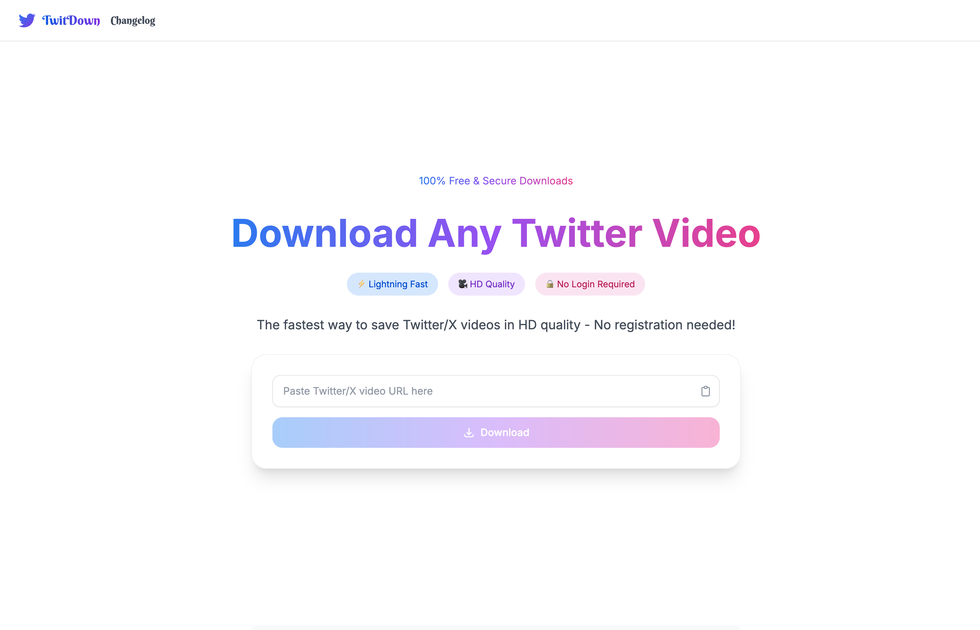
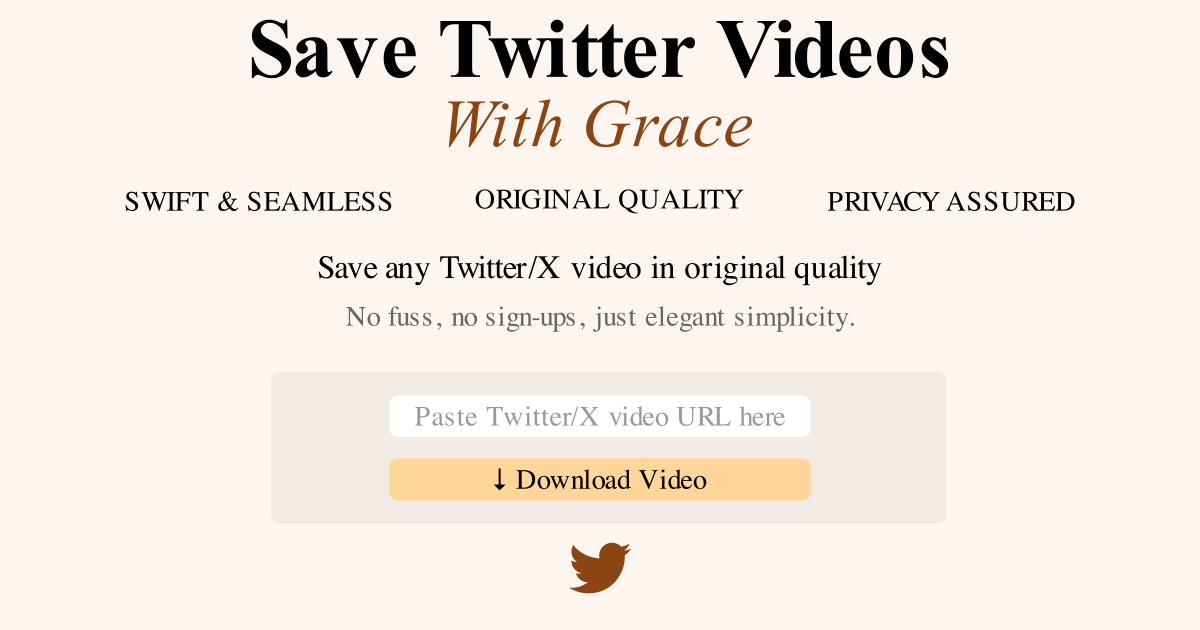
feat: Add OG image generation script using Manim

diff --git a/og-image.py b/og-image.py
@@ -1,0 +1,120 @@
+from manim import *
+
+
+class OGImage(Scene):
+    def construct(self):
+        # Create main title with custom styling
+        title = Text(
+            "Save Twitter Videos",
+            font="Times New Roman",
+            weight=BOLD,
+            color=BLACK
+        ).scale(1.5)
+
+        # Create subtitle with italic style
+        subtitle = Text(
+            "With Grace",
+            font="Times New Roman",
+            slant=ITALIC,
+            color="#8B4513"
+        ).scale(1.2)
+
+        # Position titles
+        title.to_edge(UP)
+        subtitle.next_to(title, DOWN)
+
+        # Create feature texts
+        features = VGroup(
+            Text("⚡ SWIFT & SEAMLESS", font_size=24, color=BLACK),
+            Text("🖥 ORIGINAL QUALITY", font_size=24, color=BLACK),
+            Text("🔒 PRIVACY ASSURED", font_size=24, color=BLACK),
+        ).arrange(RIGHT, buff=1)
+        features.next_to(subtitle, DOWN * 2)
+
+        # Create description text
+        description = Text(
+            "Save any Twitter/X video in original quality",
+            font_size=28,
+            color=BLACK
+        )
+        subtext = Text(
+            "No fuss, no sign-ups, just elegant simplicity.",
+            font_size=24,
+            color="#666666"
+        )
+
+        # Position description texts
+        description.next_to(features, DOWN * 2)
+        subtext.next_to(description, DOWN)
+
+        # Create input box with rounded corners
+        input_box = RoundedRectangle(
+            corner_radius=0.1,
+            height=0.5,
+            width=5,
+            color="#EEEEEE",
+            fill_color=WHITE,
+            fill_opacity=1,
+            stroke_width=1
+        )
+
+        # Add placeholder text
+        placeholder = Text(
+            "Paste Twitter/X video URL here",
+            font_size=24,
+            color="#999999"
+        )
+        placeholder.move_to(input_box)
+
+        # Create download button
+        button_box = RoundedRectangle(
+            corner_radius=0.1,
+            height=0.5,
+            width=5,
+            fill_color="#FFD699",
+            fill_opacity=1,
+            stroke_width=0
+        )
+        button_text = Text(
+            "↓ Download Video",
+            font_size=24,
+            color=BLACK
+        )
+        button_text.move_to(button_box)
+
+        # Position input and button
+        input_group = VGroup(input_box, placeholder)
+        button_group = VGroup(button_box, button_text)
+
+        input_group.next_to(subtext, DOWN * 3)
+        button_group.next_to(input_group, DOWN * 1)
+
+        # Update shadow effect
+        shadow = RoundedRectangle(
+            corner_radius=0.1,
+            height=1.8,
+            width=8,
+            fill_color=BLACK,
+            fill_opacity=0.05,
+            stroke_width=0
+        )
+        shadow.move_to(VGroup(input_group, button_group))
+        shadow.shift(RIGHT * 0.1)
+
+        # Create Twitter/X icon using SVG file with matching brown color
+        twitter_icon = SVGMobject(
+            "public/assets/twitter.svg",
+            stroke_width=0,
+            fill_color="#8B4513",  # Match subtitle's saddle brown color
+            fill_opacity=1
+        ).scale(0.3)
+
+        # Position the Twitter icon at the bottom
+        twitter_icon.next_to(button_group, DOWN * 2)
+
+        # Add all elements to scene
+        self.add(title, subtitle, features, description,
+                 subtext, shadow, input_group, button_group, twitter_icon)
+
+        # Set background color (light beige)
+        self.camera.background_color = "#FDF6F0"
